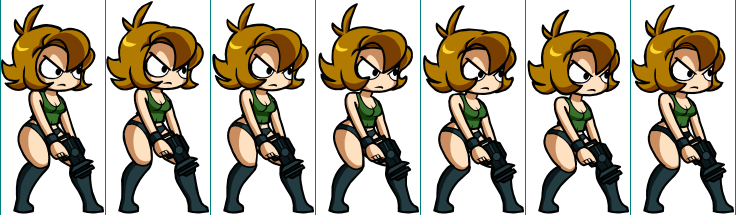
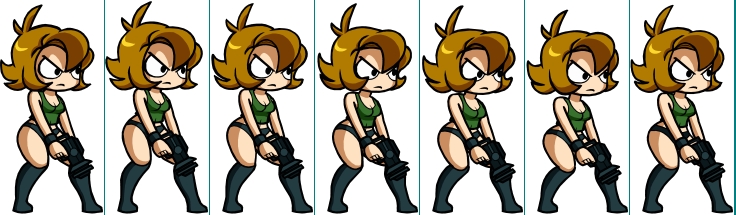
Added a simple wrapper for animated sprites, and some test runs to try it out

Changed region(s): [[0.0, 0.0, 1.0, 1.0], [0.6562, 0.1395, 0.6875, 0.1674]]

diff --git a/client/main.cpp b/client/main.cpp
@@ -3,6 +3,7 @@
 //
 #include "Window.h"
 #include "Sprite.h"
+#include "AnimatedSprite.h"
 #include <SDL.h>
 #include <SDL_image.h>
 #include <string>
@@ -40,12 +41,102 @@ void drawStaticChell(){
     }
 }
 
+void drawIdleChell(){
+    int totalFrames = 7;
+    std::string title = "Portal";
+    std::string spritePath = "client/resources/Chell/RestingIdle.png";
+    Window newWindow(title, SCREEN_WIDTH, SCREEN_HEIGHT, SDL_WINDOW_SHOWN);
+
+    AnimatedSprite restingIdleChell(spritePath, newWindow, totalFrames);
+
+    int x = (SCREEN_WIDTH - restingIdleChell.getWidth()) / 2;
+    int y = (SCREEN_HEIGHT - restingIdleChell.getHeight()) / 2;
+
+    bool quit = false;
+
+    SDL_Event e;
+
+    while(!quit) {
+        while(SDL_PollEvent( &e ) != 0) {
+            if(e.type == SDL_QUIT) {
+                quit = true;
+            }
+        }
+        newWindow.clear();
+        restingIdleChell.draw(newWindow, x, y);
+        restingIdleChell.updateFrameStep();
+        newWindow.render();
+    }
+}
+
+void drawRunningChell(){
+    int totalFrames = 12;
+    std::string title = "Portal";
+    std::string spritePath = "client/resources/Chell/Run.png";
+    Window newWindow(title, SCREEN_WIDTH, SCREEN_HEIGHT, SDL_WINDOW_SHOWN);
+
+    AnimatedSprite runningChell(spritePath, newWindow, totalFrames);
+
+    int x = (SCREEN_WIDTH - runningChell.getWidth()) / 2;
+    int y = (SCREEN_HEIGHT - runningChell.getHeight()) / 2;
+
+    bool quit = false;
+
+    SDL_Event e;
+
+    while(!quit) {
+        while(SDL_PollEvent( &e ) != 0) {
+            if(e.type == SDL_QUIT) {
+                quit = true;
+            }
+        }
+        newWindow.clear();
+        runningChell.draw(newWindow, x, y);
+        runningChell.updateFrameStep();
+        newWindow.render();
+    }
+}
+
+void drawEnterChell(){
+    int totalFrames = 16;
+    std::string title = "Portal";
+    std::string spritePath = "client/resources/Chell/Enter.png";
+    Window newWindow(title, SCREEN_WIDTH, SCREEN_HEIGHT, SDL_WINDOW_SHOWN);
+
+    AnimatedSprite runningChell(spritePath, newWindow, totalFrames);
+
+    int x = (SCREEN_WIDTH - runningChell.getWidth()) / 2;
+    int y = (SCREEN_HEIGHT - runningChell.getHeight()) / 2;
+
+    bool quit = false;
+
+    SDL_Event e;
+
+    while(!quit) {
+        while(SDL_PollEvent( &e ) != 0) {
+            if(e.type == SDL_QUIT) {
+                quit = true;
+            }
+        }
+        newWindow.clear();
+        runningChell.draw(newWindow, x, y);
+        runningChell.updateFrameStep();
+        newWindow.render();
+    }
+}
+
 int main(int argc, char* argv[]){
     SDL_Init(SDL_INIT_VIDEO);
     int imgFlags = IMG_INIT_PNG;
     IMG_Init(imgFlags);
 
     drawStaticChell();
+    SDL_Delay(1000);
+    drawIdleChell();
+    SDL_Delay(1000);
+    drawRunningChell();
+    SDL_Delay(1000);
+    drawEnterChell();
 
     IMG_Quit();
     SDL_Quit();

diff --git a/client/AnimatedSprite.cpp b/client/AnimatedSprite.cpp
@@ -1,0 +1,52 @@
+//
+// Created by ndv on 5/6/19.
+//
+
+#include "AnimatedSprite.h"
+#include "Window.h"
+#include <SDL.h>
+#include <SDL_image.h>
+#include <exception>
+#include <string>
+
+AnimatedSprite::AnimatedSprite(const std::string &path, Window &window,
+        int totalFrames) :
+        Sprite(path, window),
+        frames(totalFrames),
+        currentFrame(0),
+        currentFrameStep(0),
+        time(0){
+    this->frameWidth = (this->imageWidth / this->frames) - 1;
+    this->frameHeight = this->imageHeight;
+    this->framerate = 1000 / frames;
+}
+
+AnimatedSprite::~AnimatedSprite() {}
+
+void AnimatedSprite::updateFrameStep() {
+    if (time + framerate > SDL_GetTicks()){
+        return;
+    }
+
+    time = SDL_GetTicks();
+
+    if (currentFrame  >= frames - 1){
+        currentFrame = 0;
+    }
+    currentFrameStep = (frameWidth + 1) * currentFrame;
+    ++currentFrame;
+}
+
+void AnimatedSprite::draw(Window &destWindow, int x, int y) {
+    SDL_Rect sourceRect = {currentFrameStep, 0, frameWidth, frameHeight};
+    SDL_Rect destRect = {x, y, frameWidth, frameHeight};
+    destWindow.draw(*texture, sourceRect, destRect);
+}
+
+int AnimatedSprite::getWidth() {
+    return this->frameWidth;
+}
+
+int AnimatedSprite::getHeight() {
+    return this->frameHeight;
+}

diff --git a/client/AnimatedSprite.h b/client/AnimatedSprite.h
@@ -1,0 +1,36 @@
+//
+// Created by ndv on 5/6/19.
+//
+
+#ifndef PORTAL_ANIMATEDSPRITE_H
+#define PORTAL_ANIMATEDSPRITE_H
+
+#include "Window.h"
+#include "Sprite.h"
+#include <SDL.h>
+#include <SDL_image.h>
+#include <exception>
+#include <string>
+
+class AnimatedSprite : public Sprite {
+    // We define a frame width and height, to preserve the original sprite sheet
+    // width and height.
+    int frameWidth;
+    int frameHeight;
+    int frames;
+    int currentFrame;
+    // Step to render the current frame on the sprite sheet.
+    int currentFrameStep;
+    unsigned long time;
+    int framerate;
+public:
+    AnimatedSprite(const std::string& path, Window& window, int totalFrames);
+    ~AnimatedSprite();
+    void draw(Window &destWindow, int x, int y);
+    void updateFrameStep();
+    int getWidth();
+    int getHeight();
+};
+
+
+#endif //PORTAL_ANIMATEDSPRITE_H
